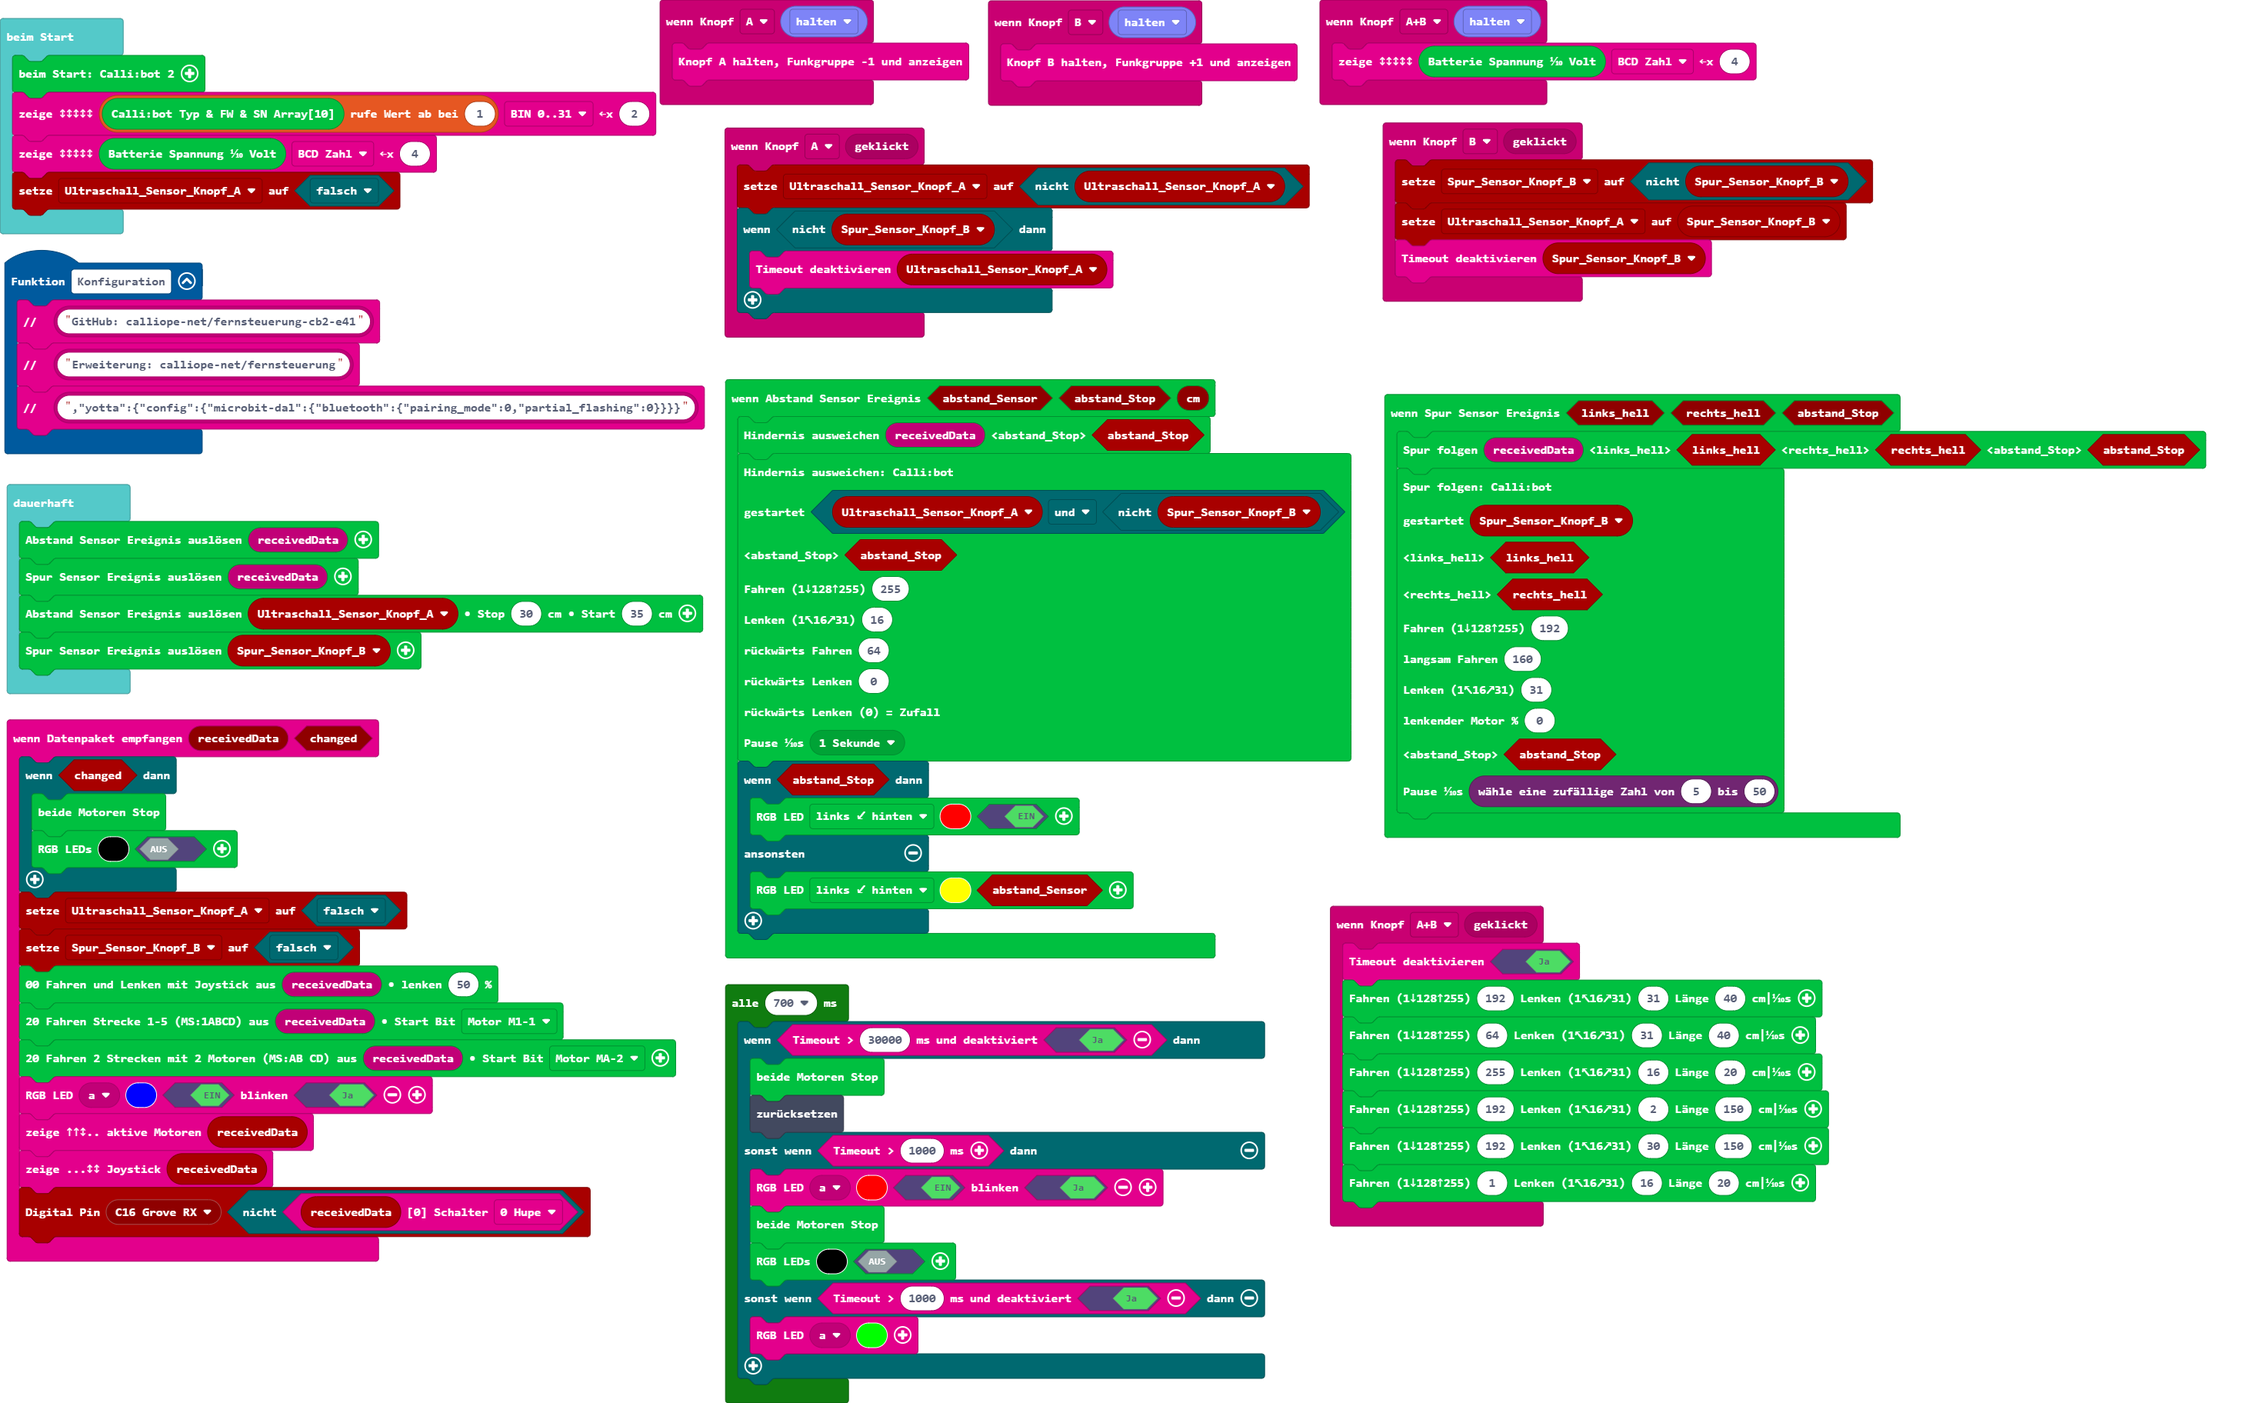
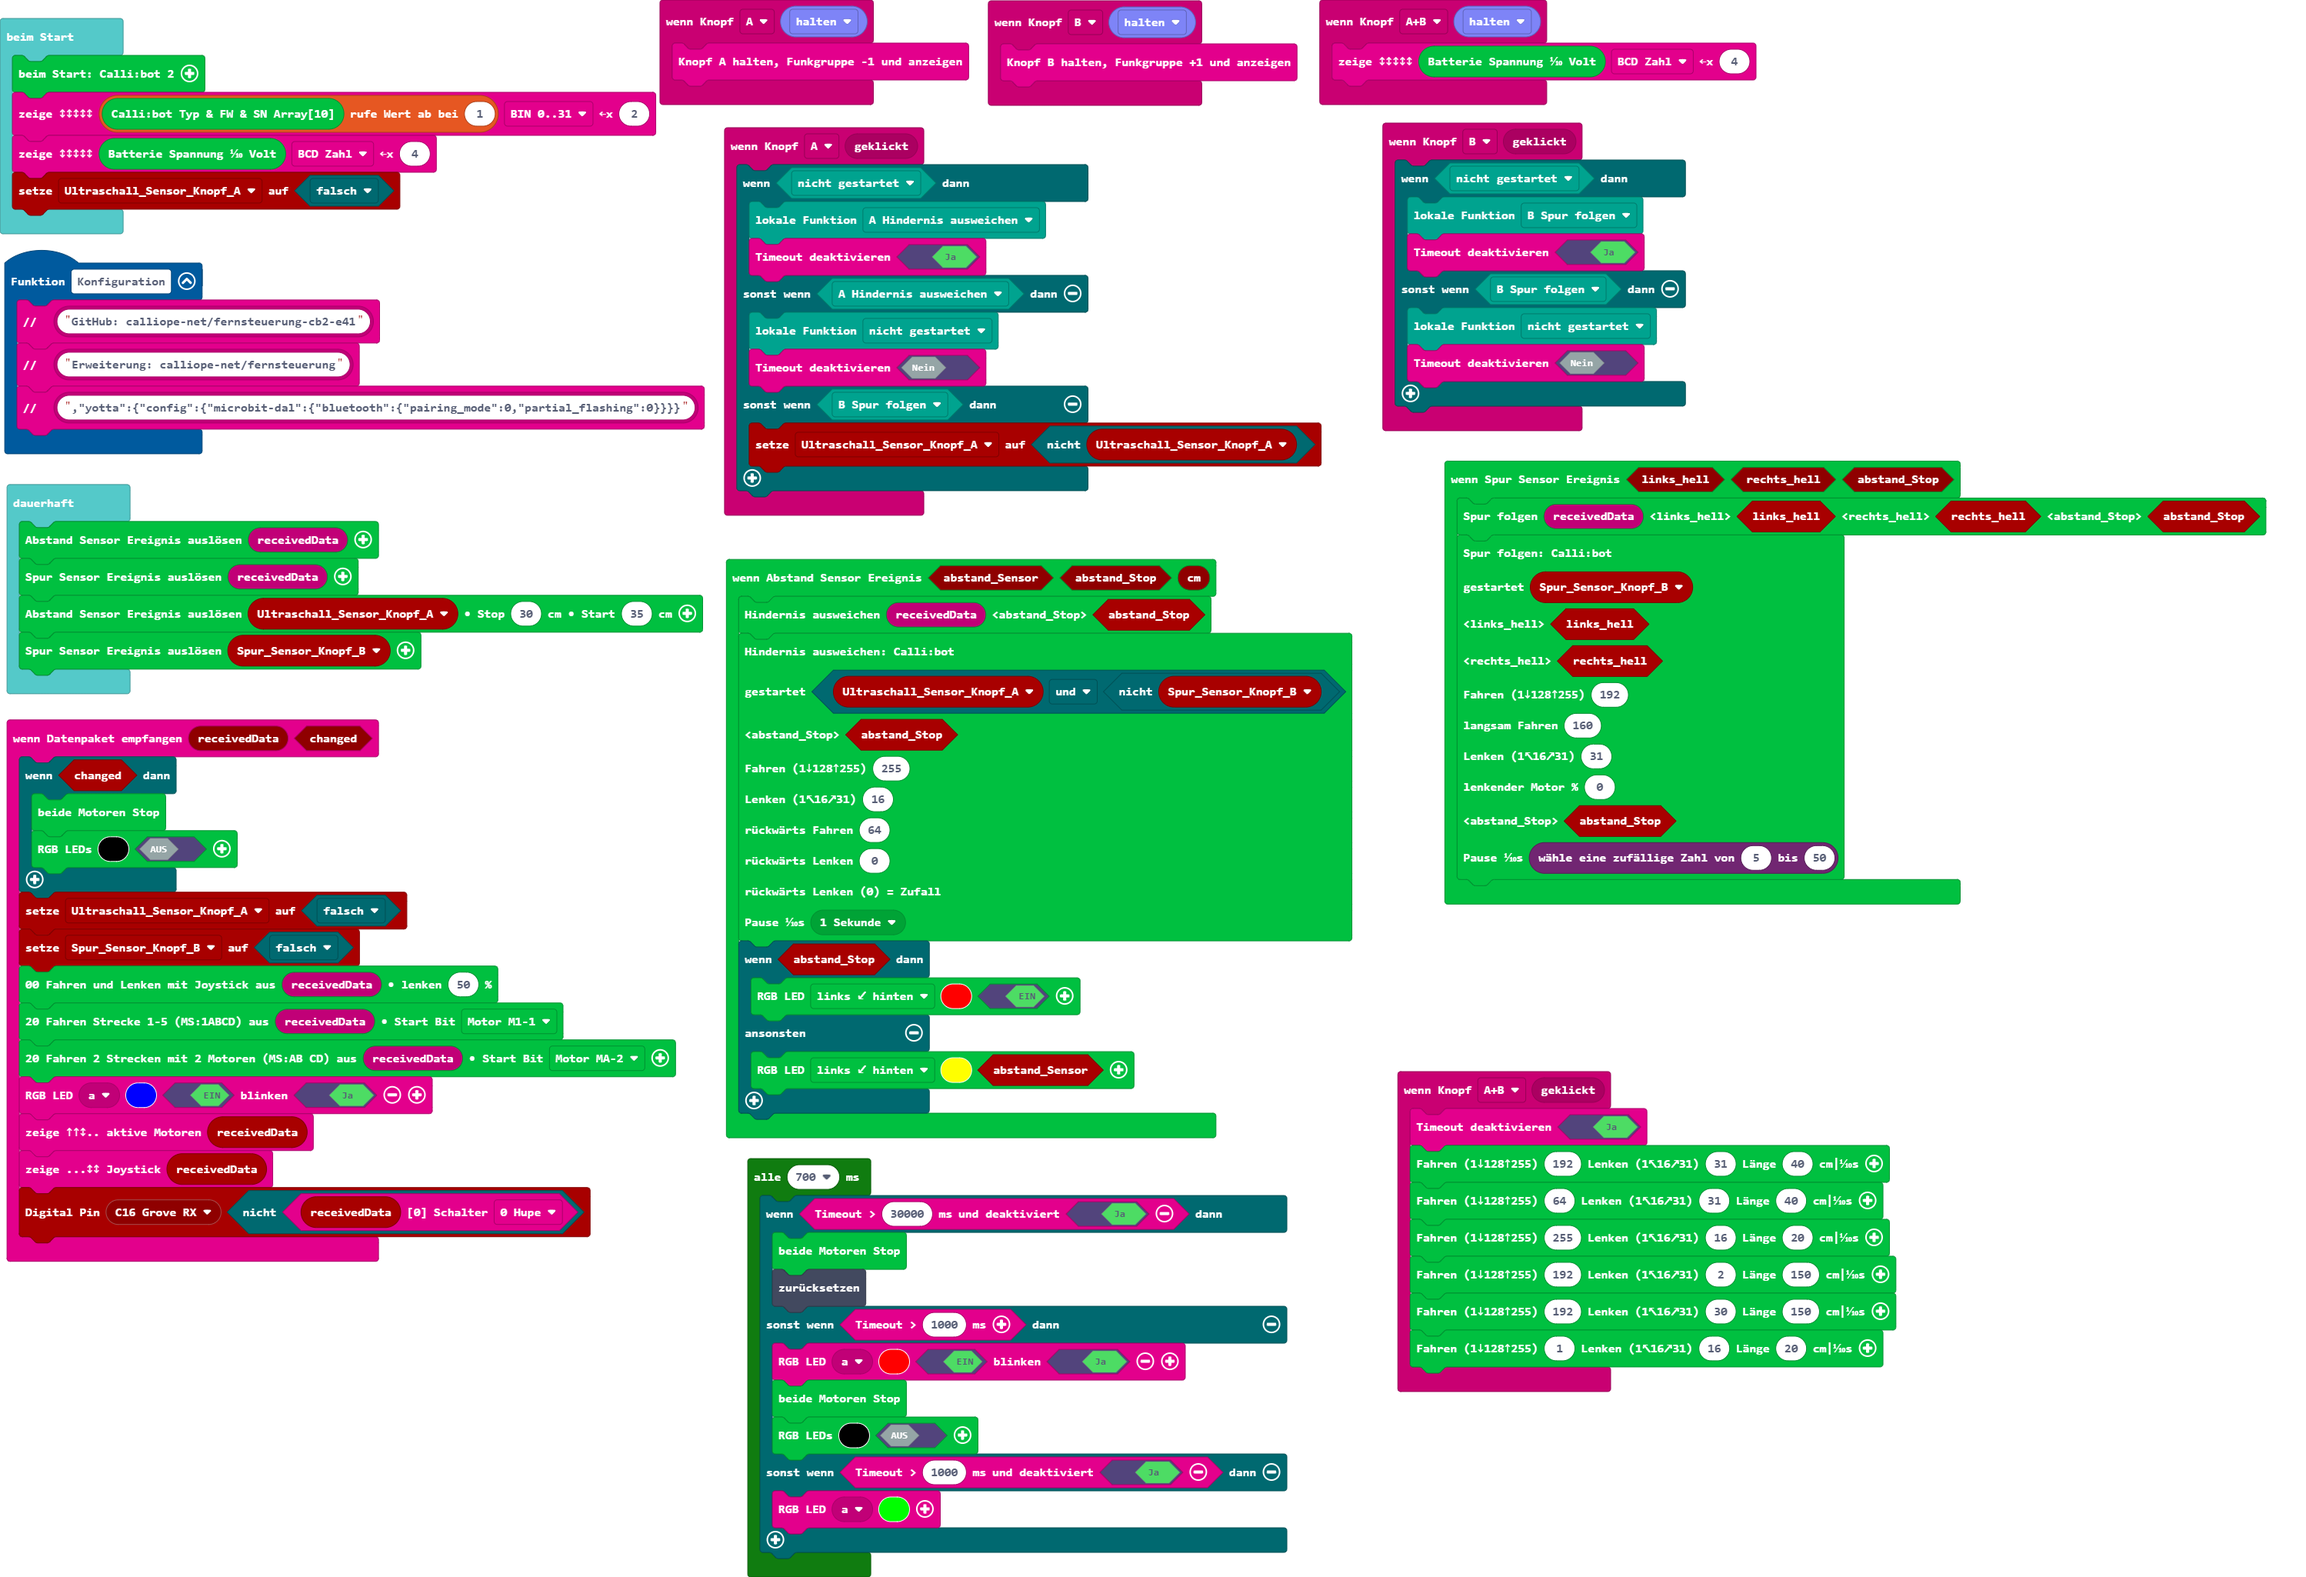
Aktualisiere pxt.json, main.blocks, main.ts

diff --git a/main.ts b/main.ts
@@ -2,9 +2,14 @@ input.onButtonEvent(Button.AB, btf.buttonEventValue(ButtonEvent.Hold), function 
     btf.zeigeBIN(cb2.readSpannung(), btf.ePlot.bcd, 4)
 })
 input.onButtonEvent(Button.A, input.buttonEventClick(), function () {
-    Ultraschall_Sensor_Knopf_A = !(Ultraschall_Sensor_Knopf_A)
-    if (!(Spur_Sensor_Knopf_B)) {
-        btf.set_timeoutDisbled(Ultraschall_Sensor_Knopf_A)
+    if (receiver.isFunktion(receiver.eFunktion.ng)) {
+        receiver.setFunktion(receiver.eFunktion.hindernis_ausweichen)
+        btf.set_timeoutDisbled(true)
+    } else if (receiver.isFunktion(receiver.eFunktion.hindernis_ausweichen)) {
+        receiver.setFunktion(receiver.eFunktion.ng)
+        btf.set_timeoutDisbled(false)
+    } else if (receiver.isFunktion(receiver.eFunktion.spur_folgen)) {
+        Ultraschall_Sensor_Knopf_A = !(Ultraschall_Sensor_Knopf_A)
     }
 })
 input.onButtonEvent(Button.AB, input.buttonEventClick(), function () {
@@ -34,9 +39,13 @@ cb2.onAbstandEvent(function (abstand_Sensor, abstand_Stop, cm) {
     }
 })
 input.onButtonEvent(Button.B, input.buttonEventClick(), function () {
-    Spur_Sensor_Knopf_B = !(Spur_Sensor_Knopf_B)
-    Ultraschall_Sensor_Knopf_A = Spur_Sensor_Knopf_B
-    btf.set_timeoutDisbled(Spur_Sensor_Knopf_B)
+    if (receiver.isFunktion(receiver.eFunktion.ng)) {
+        receiver.setFunktion(receiver.eFunktion.spur_folgen)
+        btf.set_timeoutDisbled(true)
+    } else if (receiver.isFunktion(receiver.eFunktion.spur_folgen)) {
+        receiver.setFunktion(receiver.eFunktion.ng)
+        btf.set_timeoutDisbled(false)
+    }
 })
 input.onButtonEvent(Button.B, btf.buttonEventValue(ButtonEvent.Hold), function () {
     btf.buttonBhold()
